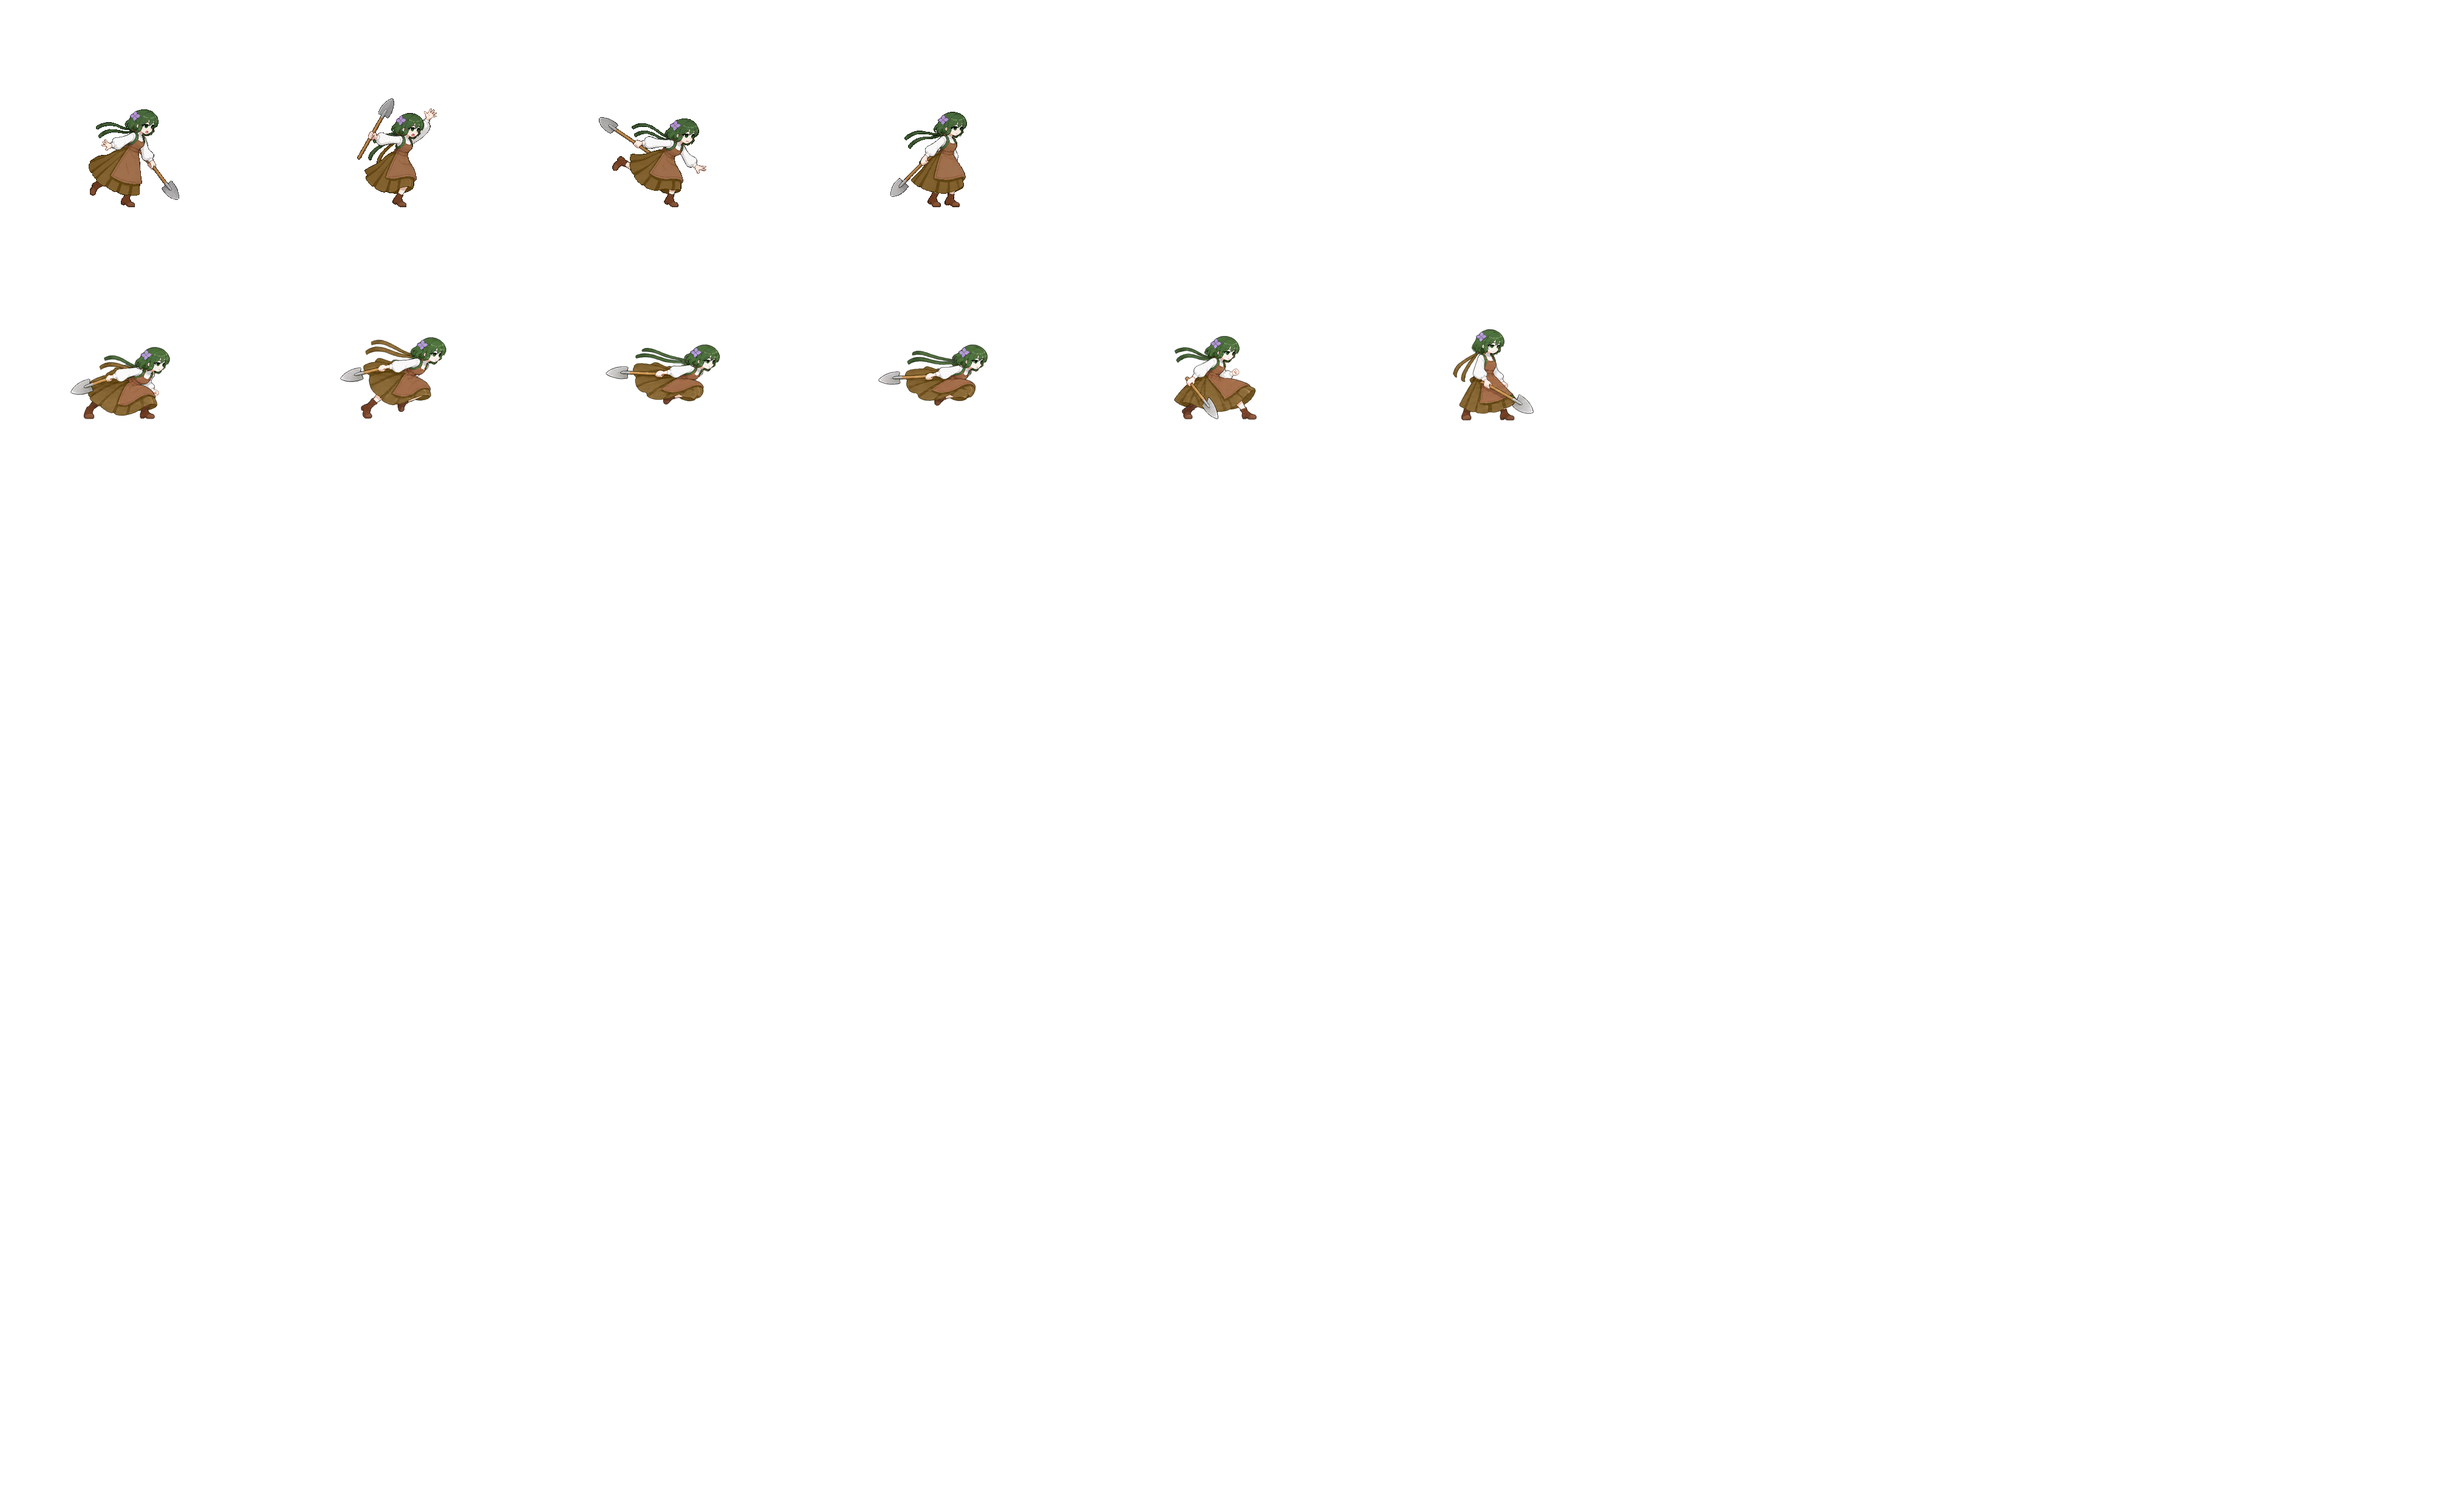
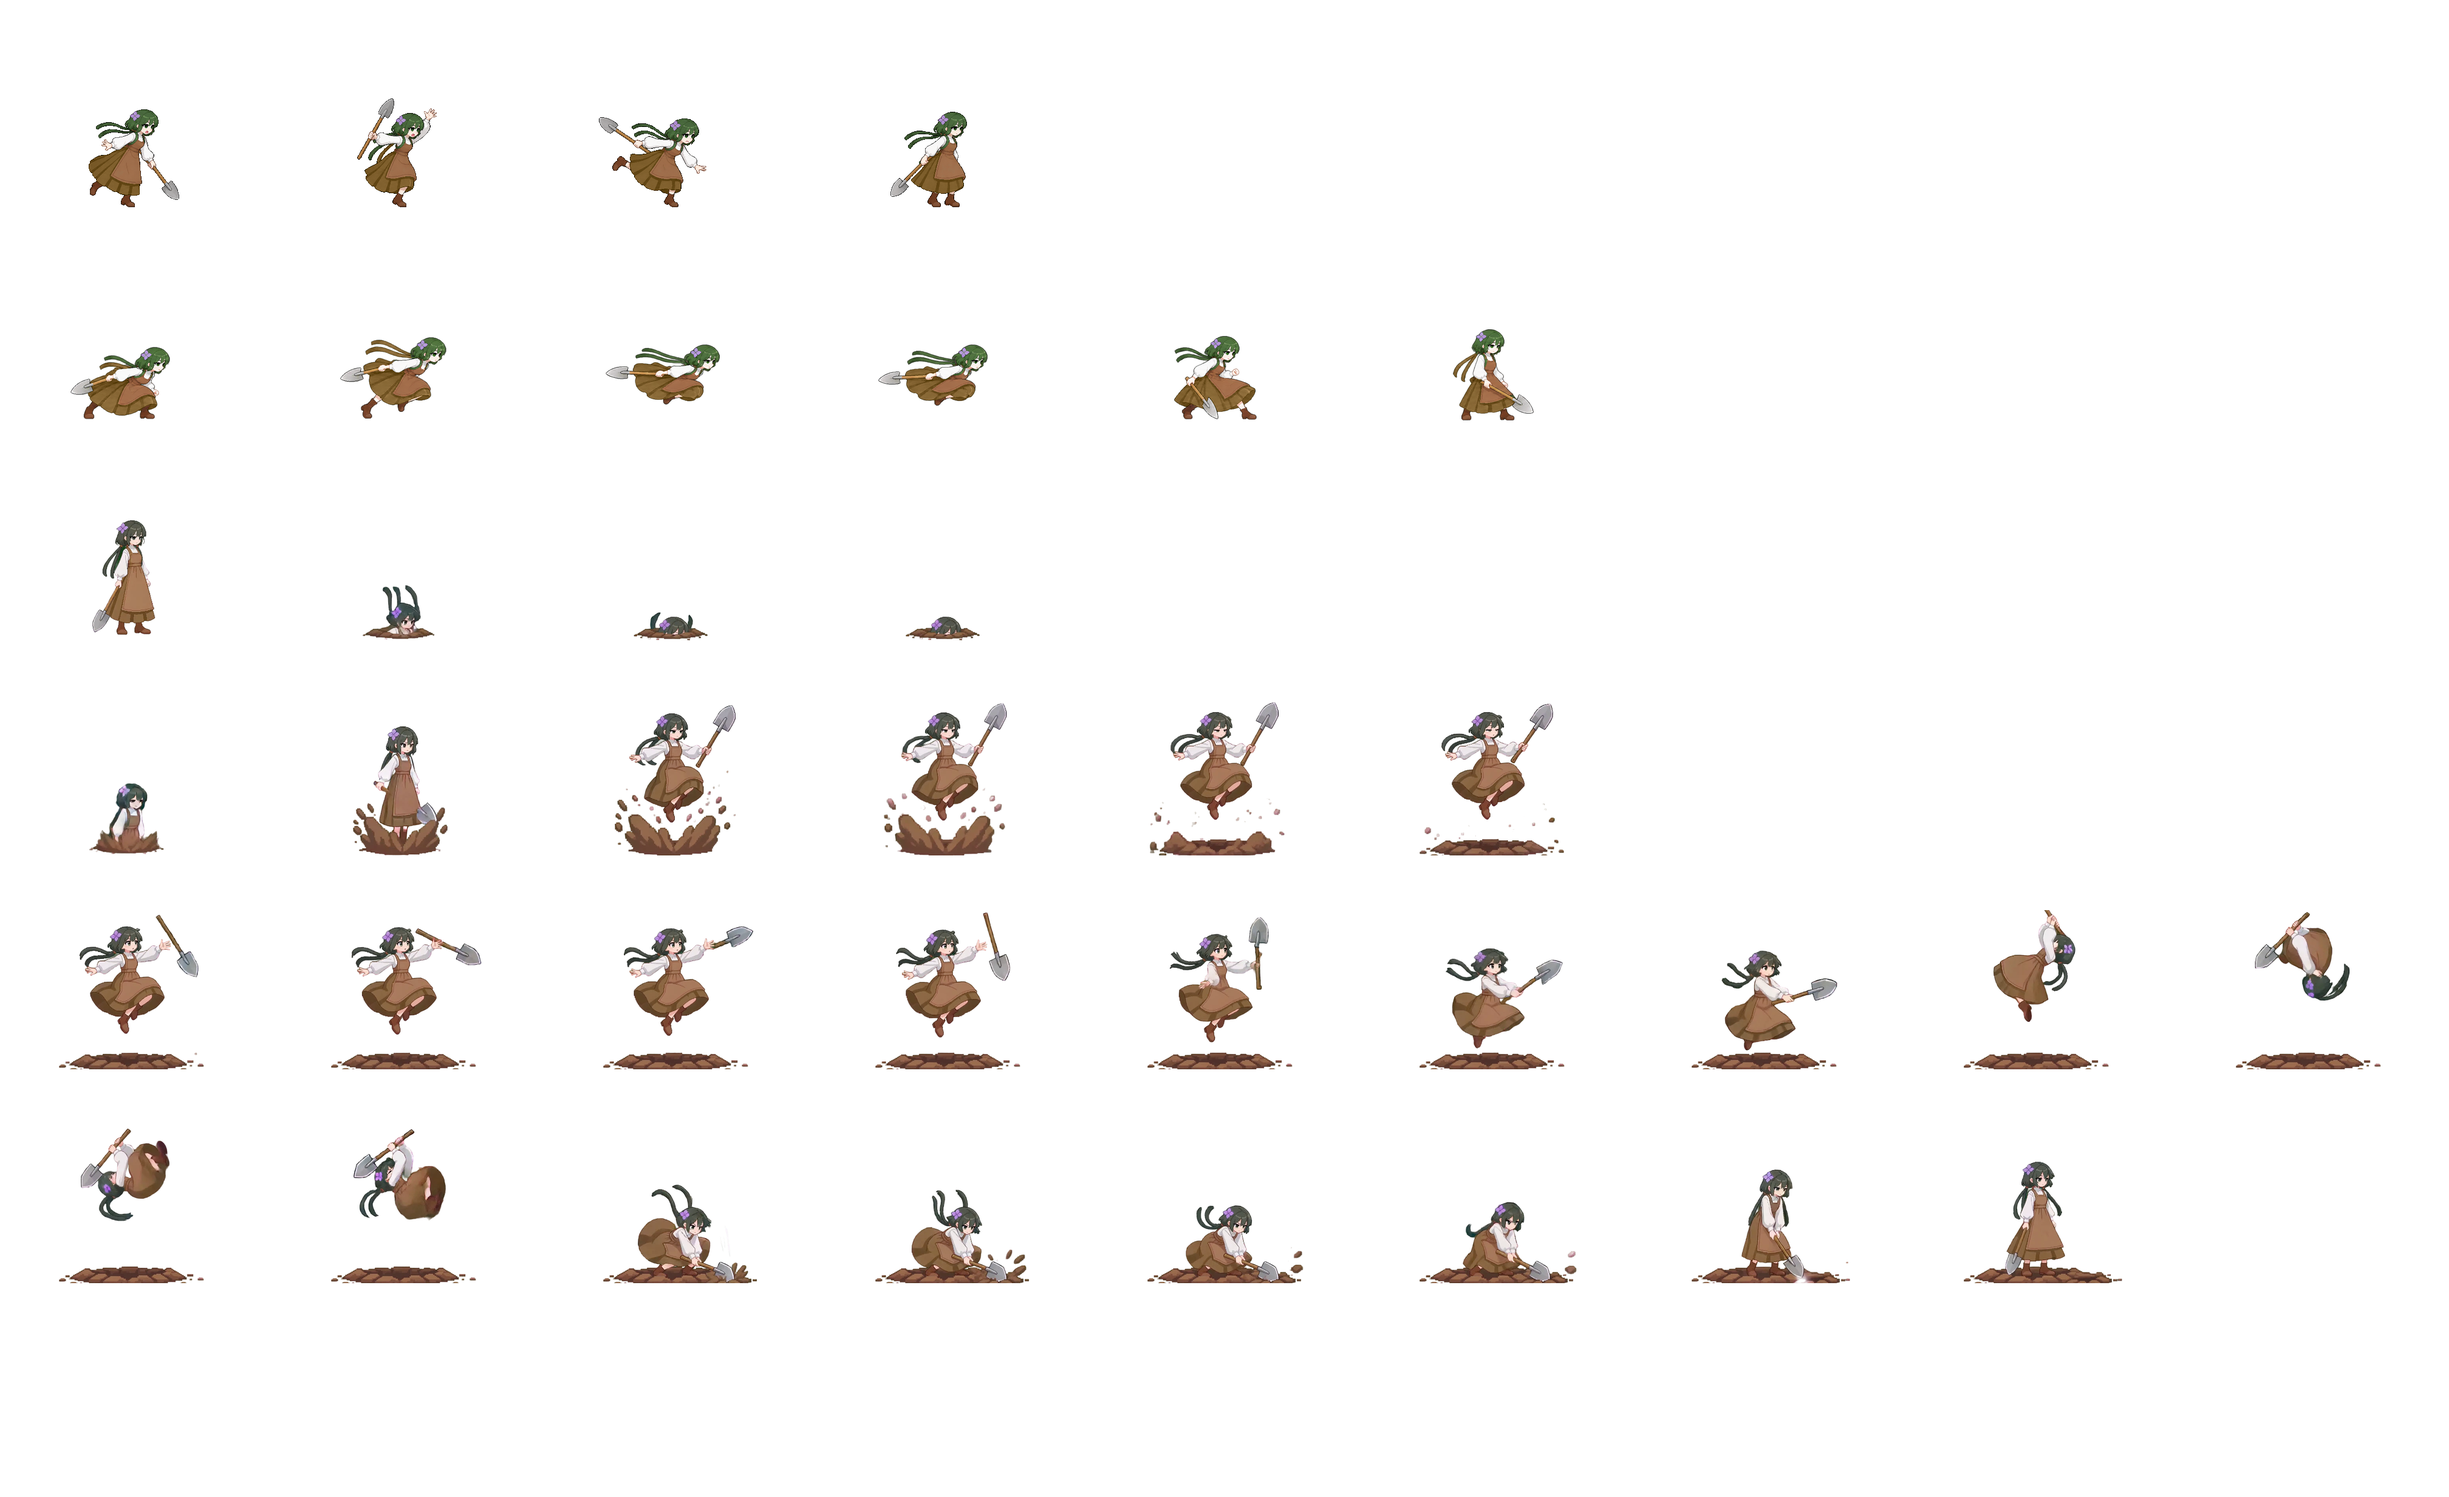
Aida 처형: new Sprite Flow motion (sink, erupt, catch, spin, slam) in rows 30-33
Plays ax_sink/ax_rise/ax_spin/ax_slam with the height baked into the frames; the foe rides
with her head; no invincibility blink during the sequence; redraw while it runs.

Claude-Session: https://claude.ai/code/session_01FzDataYedfiK9tzFLcKdoU

diff --git a/tools/sprite_flow/pack_aida_exec.py b/tools/sprite_flow/pack_aida_exec.py
@@ -1,0 +1,50 @@
+"""Aida's 처형 (owner 2026-11-04): Sprite Flow Pro motion "attack-shovel-combo" (32 frames, transparent webm) →
+rows 30-33 of assets/chars/aida/aida_4.png (448x352 cells), one fixed anchor for the whole motion (feet of frame 1 on
+the idle pose's feet), one scale (her standing height matched to the idle pose). Prints each frame's head height in
+cell px (the game carries the foe along with it).
+usage: python3 -I pack_aida_exec.py FRAMES_DIR (01.png … 32.png, e.g. ffmpeg -c:v libvpx-vp9 -i x.webm dir/%02d.png)
+"""
+import sys
+from PIL import Image
+
+D = sys.argv[1].rstrip("/") + "/"
+SHEET = "assets/chars/aida/aida_4.png"
+ROWS = {30: [2, 4, 5, 6], 31: [9, 10, 11, 12, 13, 14], 32: [15, 16, 17, 18, 19, 20, 21, 22, 23], 33: [24, 25, 26, 27, 28, 29, 30, 31]}
+CW, CH = 448, 352
+SRC_FEET = (480, 768)          # frame 1: feet centre, ground line (alpha > 60)
+SRC_H = 768 - 192              # frame 1: standing height
+IDLE_H = 343 - 155             # aida_0 row 0: standing height in the cell
+CELL_FEET = (203, 340)         # aida_0 row 0: feet centre in the cell
+K = IDLE_H / SRC_H
+
+def alpha_clean(im):
+    r, g, b, a = im.split()
+    a = a.point(lambda v: 0 if v < 40 else v)
+    return Image.merge("RGBA", (r, g, b, a))
+
+def tone(im):
+    # Sprite Flow frames run a little dark next to the hand-drawn sheet: lift the mids
+    r, g, b, a = im.split()
+    lut = [min(255, int(255 * ((v / 255) ** 0.88))) for v in range(256)]
+    return Image.merge("RGBA", (r.point(lut), g.point(lut), b.point(lut), a))
+
+sheet = Image.open(SHEET).convert("RGBA")
+tops = {}
+for row, sel in ROWS.items():
+    r = row - 28
+    sheet.paste((0, 0, 0, 0), (0, r * CH, 9 * CW, (r + 1) * CH))
+    tops[row] = []
+    for col, fn in enumerate(sel):
+        im = tone(alpha_clean(Image.open(D + "%02d.png" % fn).convert("RGBA")))
+        w, h = int(im.width * K), int(im.height * K)
+        sm = im.resize((w, h), Image.LANCZOS)
+        ox = CELL_FEET[0] - int(SRC_FEET[0] * K)
+        oy = CELL_FEET[1] - int(SRC_FEET[1] * K)
+        cell = Image.new("RGBA", (CW, CH), (0, 0, 0, 0))
+        cell.alpha_composite(sm, (ox, oy)) if ox >= 0 and oy >= 0 else cell.paste(sm, (ox, oy), sm)
+        sheet.alpha_composite(cell, (col * CW, r * CH))
+        bb = cell.split()[3].point(lambda v: 255 if v > 60 else 0).getbbox()
+        tops[row].append(CELL_FEET[1] - (bb[1] if bb else CELL_FEET[1]))
+sheet.save(SHEET)
+print("scale", round(K, 4))
+for row in ROWS: print(row, tops[row])
